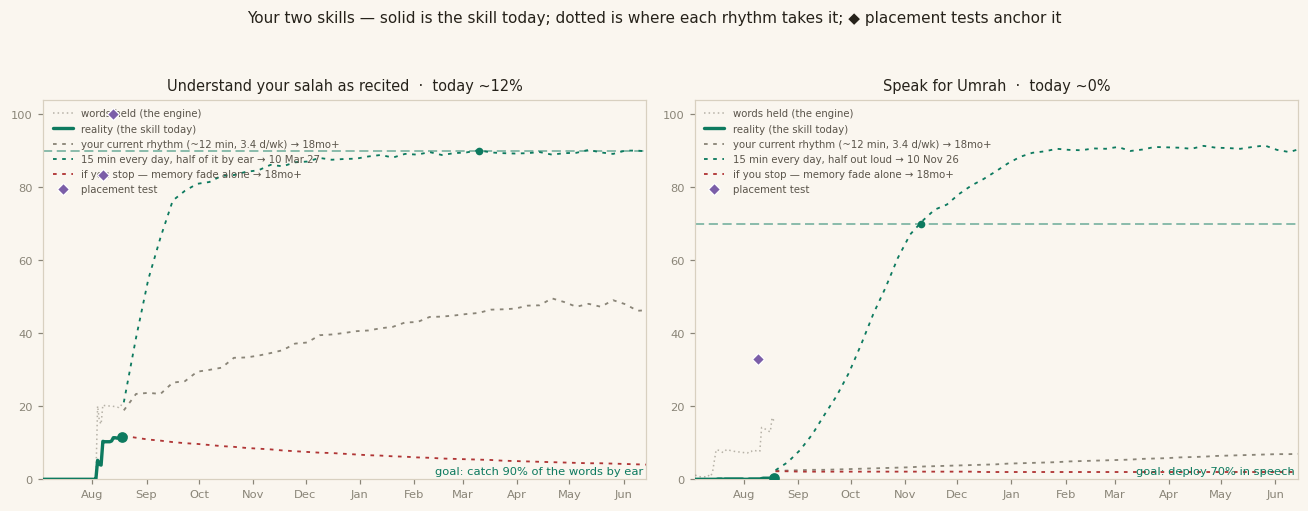
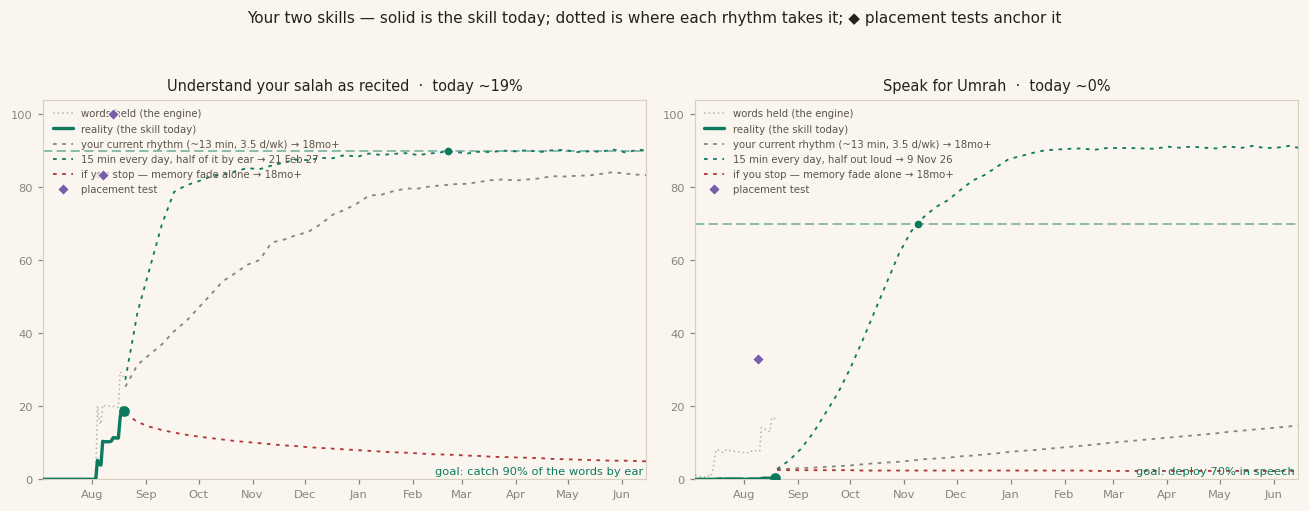
Audio Coach: never cut a word off mid-clip (his 2026-08-18 pen note)
speakP's fixed 3s bound fired while slow-fetching (and 0.9x-slowed) clips
were still playing; the next step's stopSpeak() then truncated the word
('alhamdulil'). The bound now extends in 500ms steps while speakBusy()
reports the shared clip element or TTS is still sounding, with a 20s hard
cap for genuinely stuck audio. Progress series + chart regenerated.

diff --git a/audio.html b/audio.html
@@ -8,8 +8,8 @@
   <link rel="icon" href="icons/icon-192.png">
   <link rel="apple-touch-icon" href="icons/icon-192.png">
   <title>Audio Coach — Arabic Through Stories</title>
-  <link rel="stylesheet" href="css/fonts.css?v=msxz3k07">
-  <link rel="stylesheet" href="css/style.css?v=msxz3k07">
+  <link rel="stylesheet" href="css/fonts.css?v=mszeh909">
+  <link rel="stylesheet" href="css/style.css?v=mszeh909">
   <style>
     .ac-stage {
       text-align: center; padding: 26px 16px 30px; border-radius: 18px;
@@ -38,9 +38,9 @@
   <div id="content">Loading…</div>
 </main>
 
-<script src="js/app.js?v=msxz3k07"></script>
-<script src="js/tracker.js?v=msxz3k07"></script>
-<script src="js/plan.js?v=msxz3k07"></script>
+<script src="js/app.js?v=mszeh909"></script>
+<script src="js/tracker.js?v=mszeh909"></script>
+<script src="js/plan.js?v=mszeh909"></script>
 <script>
 renderNav("audio");
 trackPage("audio");
@@ -120,8 +120,20 @@ function speakP(text, rate) {
     const fin = () => { if (!done) { done = true; resolve(); } };
     S.cancel = () => { stopSpeak(); fin(); };
     speak(text, rate, fin);
-    // mobile audio/TTS sometimes never fires onend — bound the wait
-    setTimeout(fin, Math.max(3000, text.length * 200));
+    // mobile audio/TTS sometimes never fires onend — bound the wait. But the
+    // bound must never cut audio that is still audibly playing: clip fetch
+    // latency + slowed playback often pushed real words past a fixed timeout
+    // and the next step's stopSpeak() truncated them mid-word ("alhamdulil").
+    const soft = Math.max(3000, text.length * 200);
+    let waited = 0;
+    const step = () => {
+      if (done) return;
+      waited += 500;
+      if (waited >= 20000) { fin(); return; }              // stuck audio: give up
+      if (waited >= soft && !speakBusy()) { fin(); return; }
+      setTimeout(step, 500);
+    };
+    setTimeout(step, 500);
   });
 }
 function sleepP(ms) {

diff --git a/placement.html b/placement.html
@@ -8,8 +8,8 @@
   <link rel="icon" href="icons/icon-192.png">
   <link rel="apple-touch-icon" href="icons/icon-192.png">
   <title>Listening Placement — Arabic Through Stories</title>
-  <link rel="stylesheet" href="css/fonts.css?v=msxz3k07">
-  <link rel="stylesheet" href="css/style.css?v=msxz3k07">
+  <link rel="stylesheet" href="css/fonts.css?v=mszeh909">
+  <link rel="stylesheet" href="css/style.css?v=mszeh909">
   <style>
     .pl-opt { display:block; width:100%; text-align:left; margin-top:8px; padding:10px 14px; border-radius:12px; font-size:14.5px; line-height:1.5; }
     .pl-opt.ok { background: var(--accent-soft); border-color: var(--accent); }
@@ -31,10 +31,10 @@
   </div>
 </main>
 
-<script src="js/app.js?v=msxz3k07"></script>
-<script src="js/tracker.js?v=msxz3k07"></script>
-<script src="js/plan.js?v=msxz3k07"></script>
-<script src="js/progress-model.js?v=msxz3k07"></script>
+<script src="js/app.js?v=mszeh909"></script>
+<script src="js/tracker.js?v=mszeh909"></script>
+<script src="js/plan.js?v=mszeh909"></script>
+<script src="js/progress-model.js?v=mszeh909"></script>
 <script>
 renderNav("placement");
 trackPage("placement");

diff --git a/index.html b/index.html
@@ -8,8 +8,8 @@
   <link rel="icon" href="icons/icon-192.png">
   <link rel="apple-touch-icon" href="icons/icon-192.png">
   <title>Arabic Through Stories — العربية بالقصص</title>
-  <link rel="stylesheet" href="css/fonts.css?v=msxz3k07">
-  <link rel="stylesheet" href="css/style.css?v=msxz3k07">
+  <link rel="stylesheet" href="css/fonts.css?v=mszeh909">
+  <link rel="stylesheet" href="css/style.css?v=mszeh909">
 </head>
 <body>
 <main>
@@ -121,10 +121,10 @@
 </main>
 <footer>Audio uses your browser's built-in Arabic voice (best in Edge or Chrome). · <a href="keyboard.html">Phonetic keyboard tool</a></footer>
 
-<script src="js/app.js?v=msxz3k07"></script>
-<script src="js/tracker.js?v=msxz3k07"></script>
-<script src="js/plan.js?v=msxz3k07"></script>
-<script src="js/progress-model.js?v=msxz3k07"></script>
+<script src="js/app.js?v=mszeh909"></script>
+<script src="js/tracker.js?v=mszeh909"></script>
+<script src="js/plan.js?v=mszeh909"></script>
+<script src="js/progress-model.js?v=mszeh909"></script>
 <script>
 renderNav("home");
 trackPage("dashboard");

diff --git a/vocab.html b/vocab.html
@@ -8,8 +8,8 @@
   <link rel="icon" href="icons/icon-192.png">
   <link rel="apple-touch-icon" href="icons/icon-192.png">
   <title>Vocab Lab — Arabic Through Stories</title>
-  <link rel="stylesheet" href="css/fonts.css?v=msxz3k07">
-  <link rel="stylesheet" href="css/style.css?v=msxz3k07">
+  <link rel="stylesheet" href="css/fonts.css?v=mszeh909">
+  <link rel="stylesheet" href="css/style.css?v=mszeh909">
   <style>
     .fam-grid { display: grid; grid-template-columns: repeat(auto-fill, minmax(220px, 1fr)); gap: 14px; }
     .fam-card {
@@ -56,9 +56,9 @@
   <div id="kbDock"></div>
 </main>
 
-<script src="js/app.js?v=msxz3k07"></script>
-<script src="js/tracker.js?v=msxz3k07"></script>
-<script src="js/plan.js?v=msxz3k07"></script>
+<script src="js/app.js?v=mszeh909"></script>
+<script src="js/tracker.js?v=mszeh909"></script>
+<script src="js/plan.js?v=mszeh909"></script>
 <script>
 renderNav(new URLSearchParams(location.search).get("view") === "lessons" ? "lessons" : "vocab");
 

diff --git a/converse.html b/converse.html
@@ -8,8 +8,8 @@
   <link rel="icon" href="icons/icon-192.png">
   <link rel="apple-touch-icon" href="icons/icon-192.png">
   <title>Conversation Partner — Arabic Through Stories</title>
-  <link rel="stylesheet" href="css/fonts.css?v=msxz3k07">
-  <link rel="stylesheet" href="css/style.css?v=msxz3k07">
+  <link rel="stylesheet" href="css/fonts.css?v=mszeh909">
+  <link rel="stylesheet" href="css/style.css?v=mszeh909">
   <style>
     .cv-steps { display: grid; gap: 10px; margin: 8px 0 2px; }
     .cv-step { display: flex; gap: 10px; align-items: flex-start; font-size: 14.5px; }
@@ -35,9 +35,9 @@
   <div id="content">Loading…</div>
 </main>
 
-<script src="js/app.js?v=msxz3k07"></script>
-<script src="js/tracker.js?v=msxz3k07"></script>
-<script src="js/plan.js?v=msxz3k07"></script>
+<script src="js/app.js?v=mszeh909"></script>
+<script src="js/tracker.js?v=mszeh909"></script>
+<script src="js/plan.js?v=mszeh909"></script>
 <script>
 renderNav("converse");
 trackPage("converse");

diff --git a/test.html b/test.html
@@ -8,8 +8,8 @@
   <link rel="icon" href="icons/icon-192.png">
   <link rel="apple-touch-icon" href="icons/icon-192.png">
   <title>Milestone Test — Arabic Through Stories</title>
-  <link rel="stylesheet" href="css/fonts.css?v=msxz3k07">
-  <link rel="stylesheet" href="css/style.css?v=msxz3k07">
+  <link rel="stylesheet" href="css/fonts.css?v=mszeh909">
+  <link rel="stylesheet" href="css/style.css?v=mszeh909">
   <style>
     .t-row td { padding: 8px 10px; border-bottom: 1px solid var(--border); }
     .t-prompt-ar { font-family: var(--font-ar); font-size: 26px; direction: rtl; text-align: right; }
@@ -25,9 +25,9 @@
   <div id="kbDock"></div>
 </main>
 
-<script src="js/app.js?v=msxz3k07"></script>
-<script src="js/tracker.js?v=msxz3k07"></script>
-<script src="js/plan.js?v=msxz3k07"></script>
+<script src="js/app.js?v=mszeh909"></script>
+<script src="js/tracker.js?v=mszeh909"></script>
+<script src="js/plan.js?v=mszeh909"></script>
 <script>
 renderNav("");
 trackPage("test");

diff --git a/speaking.html b/speaking.html
@@ -8,8 +8,8 @@
   <link rel="icon" href="icons/icon-192.png">
   <link rel="apple-touch-icon" href="icons/icon-192.png">
   <title>Speaking — Arabic Through Stories</title>
-  <link rel="stylesheet" href="css/fonts.css?v=msxz3k07">
-  <link rel="stylesheet" href="css/style.css?v=msxz3k07">
+  <link rel="stylesheet" href="css/fonts.css?v=mszeh909">
+  <link rel="stylesheet" href="css/style.css?v=mszeh909">
   <style>
     .chips { display: flex; gap: 6px; flex-wrap: wrap; margin-bottom: 12px; }
     .chips button { border-radius: 999px; font-size: 13px; padding: 5px 12px; }
@@ -66,9 +66,9 @@
   </div>
 </main>
 
-<script src="js/app.js?v=msxz3k07"></script>
-<script src="js/tracker.js?v=msxz3k07"></script>
-<script src="js/plan.js?v=msxz3k07"></script>
+<script src="js/app.js?v=mszeh909"></script>
+<script src="js/tracker.js?v=mszeh909"></script>
+<script src="js/plan.js?v=mszeh909"></script>
 <script>
 renderNav("speaking");
 trackPage("speaking");

diff --git a/quran.html b/quran.html
@@ -8,8 +8,8 @@
   <link rel="icon" href="icons/icon-192.png">
   <link rel="apple-touch-icon" href="icons/icon-192.png">
   <title>Quran — Arabic Through Stories</title>
-  <link rel="stylesheet" href="css/fonts.css?v=msxz3k07">
-  <link rel="stylesheet" href="css/style.css?v=msxz3k07">
+  <link rel="stylesheet" href="css/fonts.css?v=mszeh909">
+  <link rel="stylesheet" href="css/style.css?v=mszeh909">
   <style>
     .verse-block { border-bottom: 1px dashed var(--border); padding: 18px 0; }
     .verse-block:last-child { border-bottom: none; }
@@ -46,9 +46,9 @@
   <div id="content">Loading…</div>
 </main>
 
-<script src="js/app.js?v=msxz3k07"></script>
-<script src="js/tracker.js?v=msxz3k07"></script>
-<script src="js/plan.js?v=msxz3k07"></script>
+<script src="js/app.js?v=mszeh909"></script>
+<script src="js/tracker.js?v=mszeh909"></script>
+<script src="js/plan.js?v=mszeh909"></script>
 <script>
 renderNav("quran");
 trackPage("quran");

diff --git a/grammar.html b/grammar.html
@@ -8,8 +8,8 @@
   <link rel="icon" href="icons/icon-192.png">
   <link rel="apple-touch-icon" href="icons/icon-192.png">
   <title>Grammar — Arabic Through Stories</title>
-  <link rel="stylesheet" href="css/fonts.css?v=msxz3k07">
-  <link rel="stylesheet" href="css/style.css?v=msxz3k07">
+  <link rel="stylesheet" href="css/fonts.css?v=mszeh909">
+  <link rel="stylesheet" href="css/style.css?v=mszeh909">
   <style>
     .g-grid { display: grid; grid-template-columns: repeat(auto-fill, minmax(230px, 1fr)); gap: 14px; }
     .g-card {
@@ -34,9 +34,9 @@
   <div id="kbDock"></div>
 </main>
 
-<script src="js/app.js?v=msxz3k07"></script>
-<script src="js/tracker.js?v=msxz3k07"></script>
-<script src="js/plan.js?v=msxz3k07"></script>
+<script src="js/app.js?v=mszeh909"></script>
+<script src="js/tracker.js?v=mszeh909"></script>
+<script src="js/plan.js?v=mszeh909"></script>
 <script>
 renderNav("grammar");
 trackPage("grammar");

diff --git a/sentences.html b/sentences.html
@@ -8,8 +8,8 @@
   <link rel="icon" href="icons/icon-192.png">
   <link rel="apple-touch-icon" href="icons/icon-192.png">
   <title>Sentence Practice — Arabic Through Stories</title>
-  <link rel="stylesheet" href="css/fonts.css?v=msxz3k07">
-  <link rel="stylesheet" href="css/style.css?v=msxz3k07">
+  <link rel="stylesheet" href="css/fonts.css?v=mszeh909">
+  <link rel="stylesheet" href="css/style.css?v=mszeh909">
   <style>
     .sp-chips { display: flex; gap: 8px; flex-wrap: wrap; margin: 6px 0 4px; }
     .sp-chip {
@@ -37,9 +37,9 @@
   <div id="kbDock"></div>
 </main>
 
-<script src="js/app.js?v=msxz3k07"></script>
-<script src="js/tracker.js?v=msxz3k07"></script>
-<script src="js/plan.js?v=msxz3k07"></script>
+<script src="js/app.js?v=mszeh909"></script>
+<script src="js/tracker.js?v=mszeh909"></script>
+<script src="js/plan.js?v=mszeh909"></script>
 <script>
 renderNav("sentences");
 trackPage("sentences");

diff --git a/review.html b/review.html
@@ -8,8 +8,8 @@
   <link rel="icon" href="icons/icon-192.png">
   <link rel="apple-touch-icon" href="icons/icon-192.png">
   <title>Daily Review — Arabic Through Stories</title>
-  <link rel="stylesheet" href="css/fonts.css?v=msxz3k07">
-  <link rel="stylesheet" href="css/style.css?v=msxz3k07">
+  <link rel="stylesheet" href="css/fonts.css?v=mszeh909">
+  <link rel="stylesheet" href="css/style.css?v=mszeh909">
 </head>
 <body>
 <main>
@@ -20,9 +20,9 @@
   </div>
 </main>
 
-<script src="js/app.js?v=msxz3k07"></script>
-<script src="js/tracker.js?v=msxz3k07"></script>
-<script src="js/plan.js?v=msxz3k07"></script>
+<script src="js/app.js?v=mszeh909"></script>
+<script src="js/tracker.js?v=mszeh909"></script>
+<script src="js/plan.js?v=mszeh909"></script>
 <script>
 renderNav("review");
 trackPage("review");

diff --git a/stories.html b/stories.html
@@ -8,8 +8,8 @@
   <link rel="icon" href="icons/icon-192.png">
   <link rel="apple-touch-icon" href="icons/icon-192.png">
   <title>Stories — Arabic Through Stories</title>
-  <link rel="stylesheet" href="css/fonts.css?v=msxz3k07">
-  <link rel="stylesheet" href="css/style.css?v=msxz3k07">
+  <link rel="stylesheet" href="css/fonts.css?v=mszeh909">
+  <link rel="stylesheet" href="css/style.css?v=mszeh909">
 </head>
 <body>
 <main>
@@ -31,9 +31,9 @@
   </div>
 </main>
 
-<script src="js/app.js?v=msxz3k07"></script>
-<script src="js/tracker.js?v=msxz3k07"></script>
-<script src="js/plan.js?v=msxz3k07"></script>
+<script src="js/app.js?v=mszeh909"></script>
+<script src="js/tracker.js?v=mszeh909"></script>
+<script src="js/plan.js?v=mszeh909"></script>
 <script>
 renderNav("stories");
 trackPage("stories");
